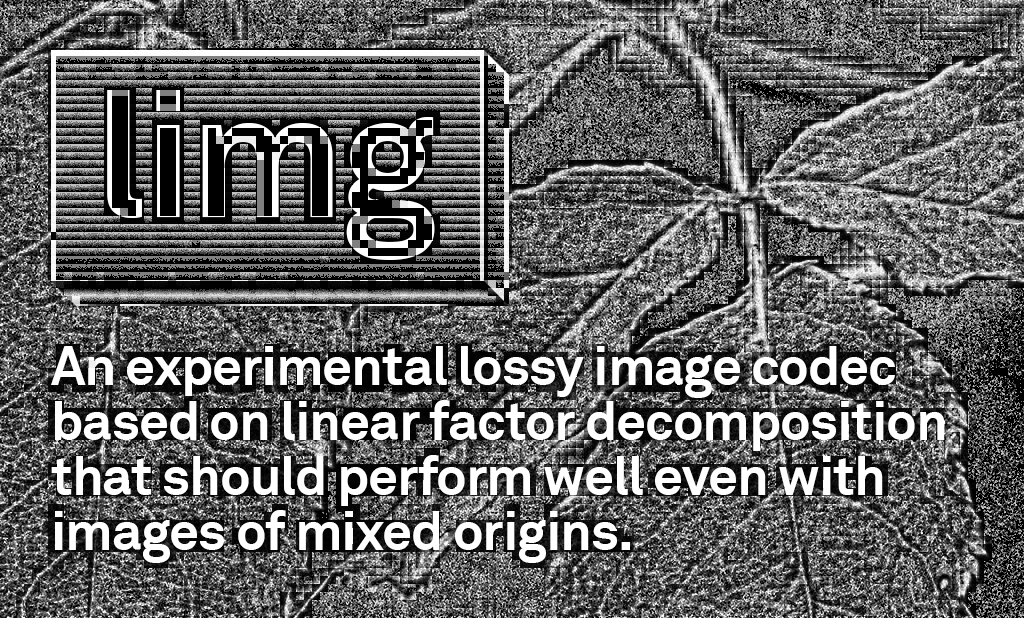
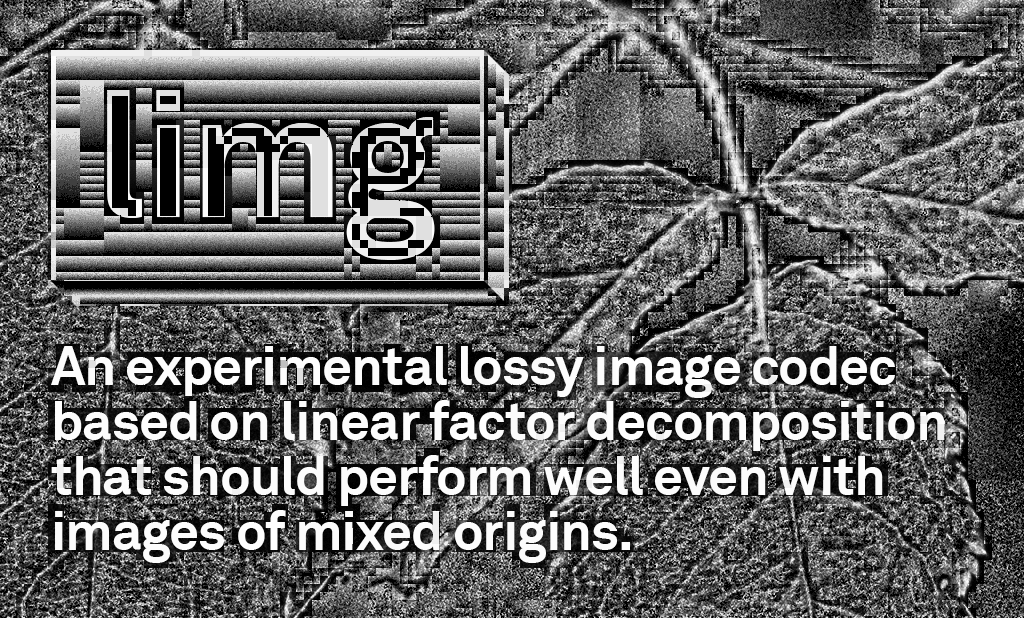
Updating README.md + images

diff --git a/README.md b/README.md
@@ -5,7 +5,10 @@
 limg is an experimental (and very much work in progress) lossy raster image codec aimed towards compressing images of various origins (photos, graphics) pretty well. It's written in C++.
 
 ## How does it work?
-limg breaks the image up into blocks and calculates three linear factors this block consists of.
+limg breaks the image up into blocks and calculates three linear factors the colors in this block consists of.
+
+We then try to expand those blocks into blocks of similar color, and if possible, recalculate a better matching linear factor decomposition. For the image above we end up with the following factors:
+![limg - Blocks](https://raw.githubusercontent.com/rainerzufalldererste/limg/master/assets/block.png)
 
 For the image above, the first linear factor would be the colors between these two extremes:
 
